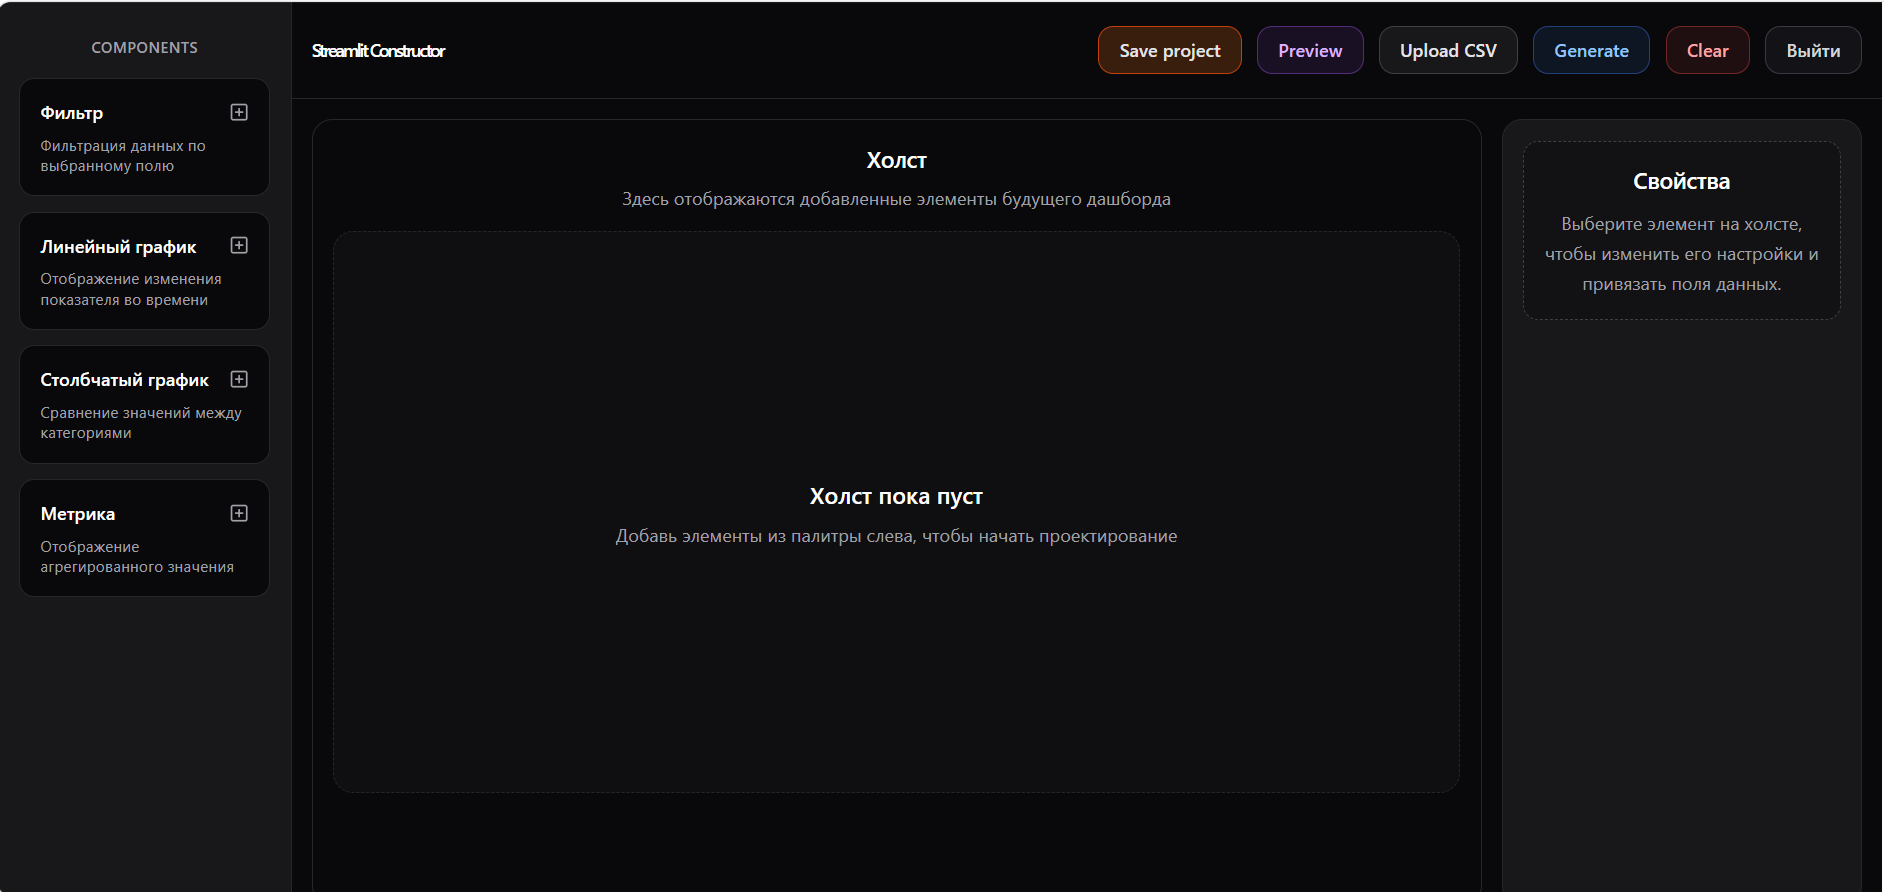
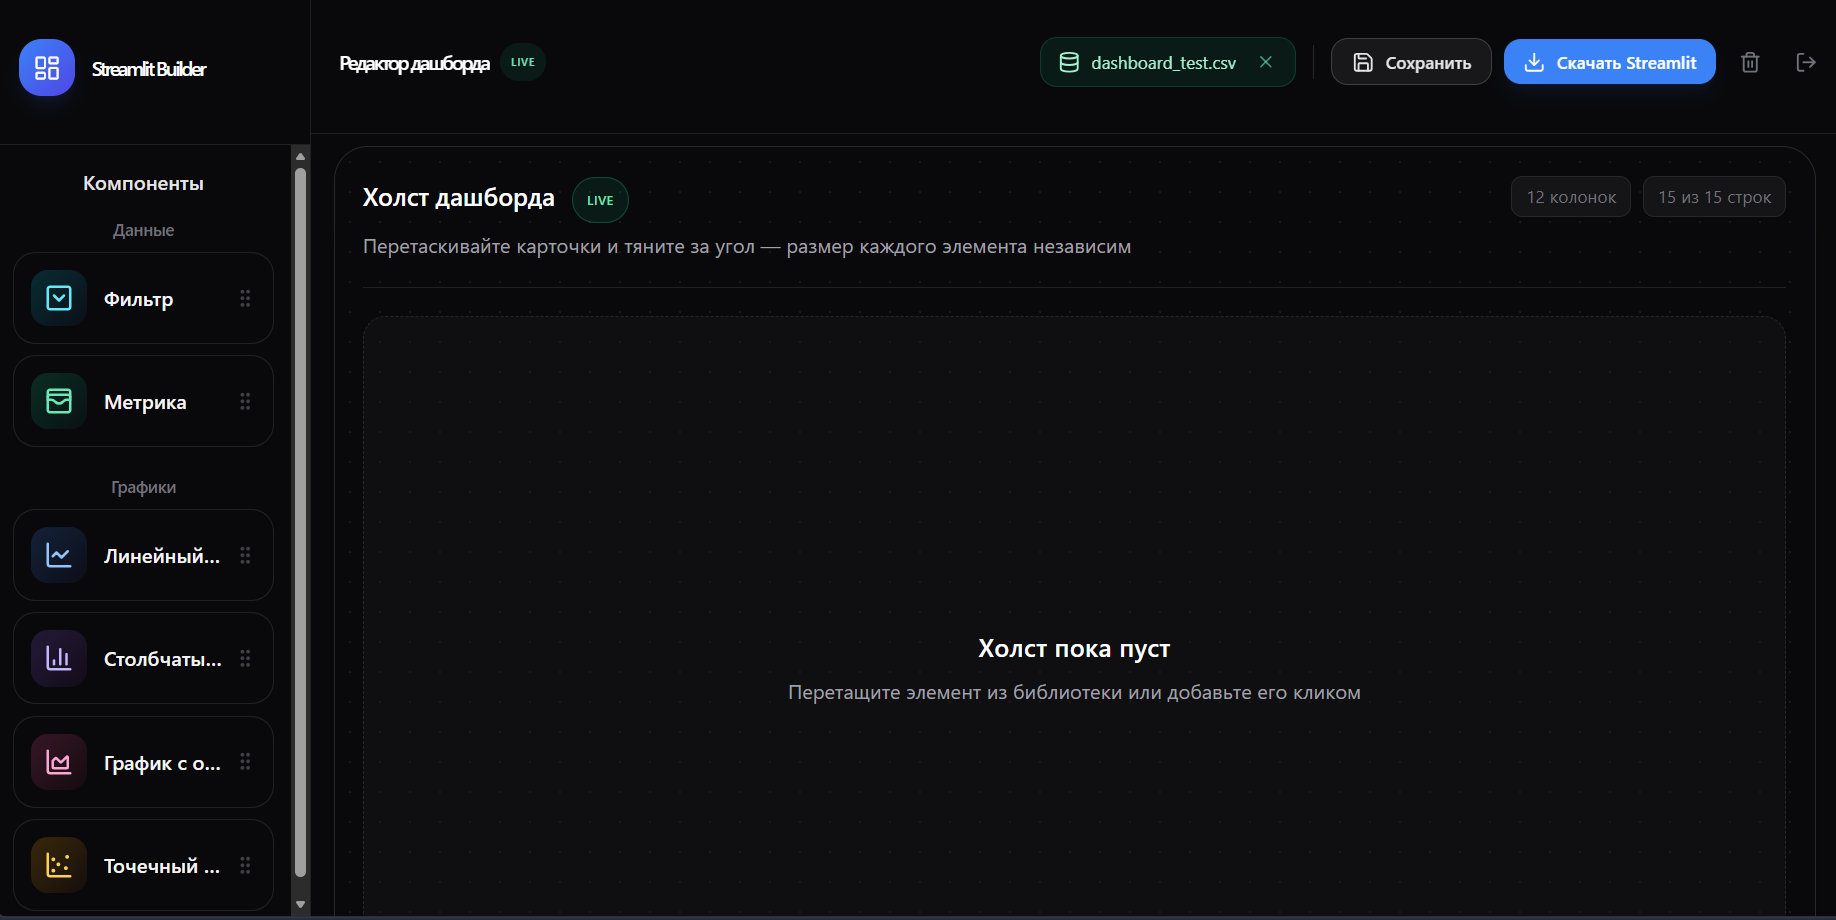
Update README with new dashboard builder features, teck stack and screenshots

diff --git a/README.md b/README.md
@@ -3,9 +3,9 @@
 ![React](https://img.shields.io/badge/react-%2320232a.svg?style=for-the-badge&logo=react&logoColor=%2361DAFB)
 ![Streamlit](https://img.shields.io/badge/Streamlit-FF4B4B?style=for-the-badge&logo=Streamlit&logoColor=white)
 ![FastAPI](https://img.shields.io/badge/FastAPI-005571?style=for-the-badge&logo=fastapi) <br>
-Клиентская часть no-code платформы для создания интерактивных дашбордов. Проект позволяет бизнес-аналитикам собирать полноценные веб-приложения на базе фреймворка Streamlit с помощью веб-интерфейса, без единой строчки кода.
-> **Архитектура проекта:** Данный репозиторий содержит **Frontend-часть** (React). 
-> Клиент отвечает за визуальный конструктор и генерацию декларативной JSON-схемы дашборда, которая затем отправляется на Backend (FastAPI) для компиляции в Python-код и рендеринга.
+Клиентская часть no-code платформы для создания интерактивных аналитических дашбордов. Проект позволяет бизнес-аналитикам и продуктовым командам собирать полноценные веб-приложения на базе фреймворка **Streamlit** в визуальном редакторе — без написания единой строчки кода.
+> **Архитектура проекта:** Данный репозиторий содержит **Frontend-часть** (React).  
+> Клиент отвечает за интерактивный Drag-and-Drop конструктор с живым предпросмотром (Live Canvas) и формирование декларативной JSON-схемы (**Dashboard Schema v2**), которая отправляется на Backend (FastAPI) для валидации, хранения и компиляции в готовый к запуску Python-проект на Streamlit.
 ## Интерфейс платформы
 <!-- Замените ссылки в скобках на пути к вашим реальным скриншотам (например, загрузите их в папку images/ в репозитории и укажите путь ./images/screen1.png) -->
 ![Скриншот логина](/docs/login_photo.png)
@@ -18,18 +18,25 @@
 ![Готовый дашборд](/docs/editor_project_photo.png)
 *Уже собранный дашборд в конструкторе*<br><br><br>
 ![Скриншот превью](/docs/editor_project_preview.png)
-*Режим предварительного просмотра сгенерированного дашборда через запущенный в фоне streamlit движок*<br><br><br>
+*Сгенерированное и запущенное на Streamlit итоговое приложение*<br><br><br>
 ## Ключевой функционал (UI/UX)
-* **Визуальный конструктор:** Интуитивно понятный холст для размещения, перемещения и изменения UI-компонентов.
-* **Управление компонентами:** Возможность выделять, настраивать свойства (оси, заголовки) и удалять элементы.
-* **Поддержка различных визуализаций:** Настройка линейных графиков (`line_chart`), столбчатых диаграмм (`bar_chart`), диаграмм с областями (`area_chart`) и карточек метрик.
-* **Интерактивные фильтры:** Визуальное добавление срезов и фильтров, которые автоматически связываются с данными графиков.
-* **Загрузка датасетов:** UI-интерфейс для удобной загрузки пользовательских данных в форматах `.csv`.
-* **Управление рабочим пространством:** Система авторизации, личный кабинет пользователя и CRUD-операции для управления проектами (дашбордами).
+* **Интерактивный холст и 12-колоночная сетка (Grid Layout):** Добавление элементов перетаскиванием (Drag-and-Drop) из палитры, свободное перемещение карточек по сетке и изменение их ширины (от 2 до 12 колонок) и высоты (от 120 до 720 px) прямо на холсте.
+* **Живой предпросмотр (Live Canvas):** Графики и метрики мгновенно строятся прямо внутри карточек редактора на основе выборки загруженного датасета и в реальном времени реагируют на изменение настроек.
+* **Поддержка различных визуализаций:** Линейные графики (`line_chart`), столбчатые диаграммы (`bar_chart`), диаграммы с областями (`area_chart`), точечные диаграммы (`scatter_plot`), карточки ключевых показателей (`metric`) и глобальные фильтры (`selectbox`).
+* **Гибкая агрегация и сортировка данных:** Настройка агрегации (`sum`, `mean`, `count`, `min`, `max`, `none`) и сортировки (`asc`, `desc` по оси `X` или `Y`) с автоматическим определением типов колонок (`number`, `datetime`, `string`).
+* **Кастомизация цветового оформления:** Поддержка однотонной заливки (`solid`), градиентного (`gradient`) и категориального (`categorical`) окрашивания графиков, а также набора готовых цветовых палитр.
+* **Работа с датасетами:** Удобная загрузка пользовательских `.csv` файлов с автоматическим извлечением схемы полей и предпросмотром строк.
+* **Экспорт готового приложения в 1 клик:** Генерация и скачивание автономного ZIP-архива (`dashboard_project.zip`), включающего скомпилированный `app.py`, датасет, `requirements.txt` и скрипты быстрого локального запуска (`run_local.bat` / `run_local.sh`).
+* **Управление рабочим пространством:** JWT-авторизация, сохранение черновиков в `localStorage` и полноценные CRUD-операции для управления проектами в личном кабинете.
+
 ## 🛠 Технологический стек (Frontend)
-* **React.js** — построение пользовательского интерфейса и управление состоянием.
-* **HTML / CSS** — кастомная стилизация компонентов и обеспечение адаптивности.
-* **Взаимодействие с API:** REST API (связь с FastAPI-бэкендом для отправки JSON-схем, загрузки файлов и получения сгенерированного превью).
+* **React 19 + Vite** — построение пользовательского интерфейса, хуков состояния и быстрая сборка.
+* **React Router DOM v7** — клиентская маршрутизация и защита приватных страниц (`ProtectedRoute`).
+* **@dnd-kit (`core`, `sortable`, `utilities`)** — механика Drag-and-Drop для перетаскивания компонентов из палитры.
+* **React Grid Layout** — адаптивная 12-колоночная сетка холста с поддержкой ресайза и разрешения коллизий карточек.
+* **Recharts** — отрисовка интерактивных графиков на холсте редактора в режиме реального времени.
+* **Lucide React & CSS** — иконографика и кастомная стилизация интерфейса в тёмной теме.
+* **REST API (`fetch`)** — взаимодействие с FastAPI-бэкендом (JWT-аутентификация, загрузка CSV, сохранение схем `Dashboard Schema v2` и выгрузка ZIP-архива).
 ## 💡 Какую проблему решает бизнес
 Традиционный процесс создания дашбордов требует участия разработчиков, что создает бутылочное горлышко и увеличивает Time-to-Market аналитических решений (задержки до нескольких недель). 
 Наш no-code конструктор **сокращает время создания полноценного дашборда в множество раз** (с 60 минут классической разработки до 10-15 минут в визуальном редакторе), позволяя аналитикам самостоятельно проверять гипотезы и визуализировать данные без обращений к программистам и лишних ожиданий.
@@ -45,6 +52,7 @@ npm install
 # 4. Запустите сервер для разработки
 npm run dev
 ```
-Приложение будет доступно по адресу http://localhost:5173/. Примечание: для полноценной работы конструктора необходимо параллельно запустить backend-сервер. Ссылка на backend репозиторий проекта: https://github.com/AlexFeed/streamlit_project_backend
+Приложение будет доступно по адресу http://localhost:5173/. <br/><br/>
+Примечание: для полноценной работы конструктора необходимо параллельно запустить backend-сервер. Ссылка на backend репозиторий проекта: https://github.com/AlexFeed/streamlit_project_backend
 
-В данный момент проект находится в состоянии MVP. В дальнейшем планируется множество новвоведений. В том числе добавление новых графиков, улучшение возможностей кастомизации элементов дашбордов, а также добавление гибкой агрегации по данным.
+В данный момент проект находится в состоянии MVP. В дальнейшем планируется множество нововведений. В том числе добавление новых streamlit компонентов, поддержка нескольких источников данных с кастомизацией их загрузки, поддержка мультистраничных дашбордов и многое другое...
